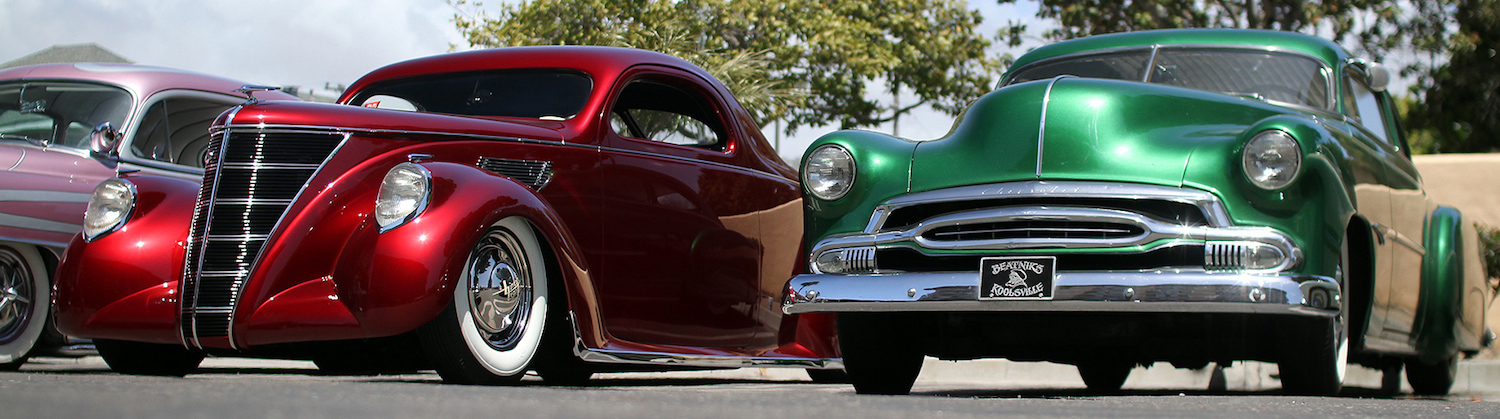
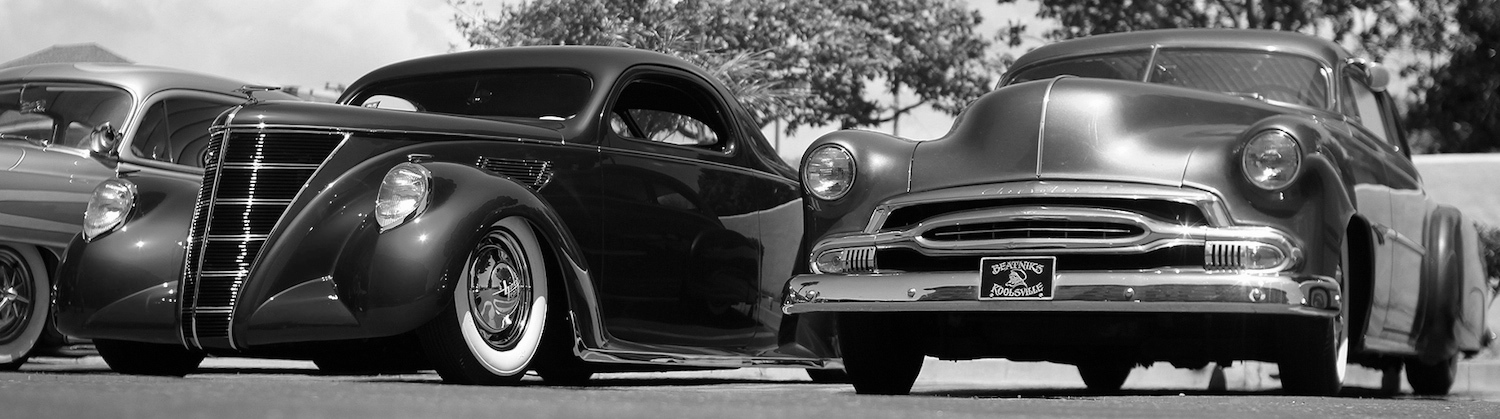
New Look -- Black and White

diff --git a/app/styles/main.scss b/app/styles/main.scss
@@ -18,7 +18,7 @@ body {
 
 .header {
     // background-color: rgb(25,29,51);
-    background-color: rgb(22,81,54);
+    background-color: rgb(21,21,21);
     height: 120px;
     width: 1500px;
     position: fixed;
@@ -32,14 +32,14 @@ body {
 // filter: progid:DXImageTransform.Microsoft.gradient( startColorstr='#232733', endColorstr='#4d5359',GradientType=0 ); /* IE6-9 */
 
 
-background: #165136; /* Old browsers */
-background: -moz-linear-gradient(top,  #165136 1%, #1d7244 99%); /* FF3.6+ */
-background: -webkit-gradient(linear, left top, left bottom, color-stop(1%,#165136), color-stop(99%,#1d7244)); /* Chrome,Safari4+ */
-background: -webkit-linear-gradient(top,  #165136 1%,#1d7244 99%); /* Chrome10+,Safari5.1+ */
-background: -o-linear-gradient(top,  #165136 1%,#1d7244 99%); /* Opera 11.10+ */
-background: -ms-linear-gradient(top,  #165136 1%,#1d7244 99%); /* IE10+ */
-background: linear-gradient(to bottom,  #165136 1%,#1d7244 99%); /* W3C */
-filter: progid:DXImageTransform.Microsoft.gradient( startColorstr='#165136', endColorstr='#1d7244',GradientType=0 ); /* IE6-9 */
+// background: #165136; /* Old browsers */
+// background: -moz-linear-gradient(top,  #165136 1%, #1d7244 99%); /* FF3.6+ */
+// background: -webkit-gradient(linear, left top, left bottom, color-stop(1%,#165136), color-stop(99%,#1d7244)); /* Chrome,Safari4+ */
+// background: -webkit-linear-gradient(top,  #165136 1%,#1d7244 99%); /* Chrome10+,Safari5.1+ */
+// background: -o-linear-gradient(top,  #165136 1%,#1d7244 99%); /* Opera 11.10+ */
+// background: -ms-linear-gradient(top,  #165136 1%,#1d7244 99%); /* IE10+ */
+// background: linear-gradient(to bottom,  #165136 1%,#1d7244 99%); /* W3C */
+// filter: progid:DXImageTransform.Microsoft.gradient( startColorstr='#165136', endColorstr='#1d7244',GradientType=0 ); /* IE6-9 */
 
 }
 
@@ -57,7 +57,9 @@ filter: progid:DXImageTransform.Microsoft.gradient( startColorstr='#165136', end
    
     // color: rgb(159, 0, 20);
     
-    color: #610C15;
+    // color: rgb(173,180,186);
+
+    color: #814143;
 
     // color: rgb(247,51,57);
     letter-spacing: 2px;
@@ -68,25 +70,27 @@ filter: progid:DXImageTransform.Microsoft.gradient( startColorstr='#165136', end
     font-size: 20px;
     padding-left: 42px;
     letter-spacing: 1px;
-    color: #E7E9E3;
+    // color: #E7E9E3;
+    color: rgb(85,89,97);
 }
 
 .tabs {
     display: inline-block;
-    margin-left: 25px;
+    margin-left: 77px;
 }
 
 ul li {
     list-style-type: none;
     display: inline-block;
-    border-right: 1px solid #E7E9E3;
-    color: #E7E9E3;
+    border-right: 1px solid #814143;
+    // color: #E7E9E3;
+    color: rgb(85,89,97);
     font-size: 14px;
     padding-right: 5px;
     font-size: 14px;
 }
 
-.contact {
+.details {
     border-right: 0px;
 }
 
@@ -100,27 +104,31 @@ ul li {
 
 .footer {
 
-    background-color: rgb(22,81,54);
+    // background-color: rgb(22,81,54);
+    background-color: rgb(21,21,21);
     height: 100px;
 
 
-    background: #165136; /* Old browsers */
-background: -moz-linear-gradient(top,  #165136 1%, #1d7244 99%); /* FF3.6+ */
-background: -webkit-gradient(linear, left top, left bottom, color-stop(1%,#165136), color-stop(99%,#1d7244)); /* Chrome,Safari4+ */
-background: -webkit-linear-gradient(top,  #165136 1%,#1d7244 99%); /* Chrome10+,Safari5.1+ */
-background: -o-linear-gradient(top,  #165136 1%,#1d7244 99%); /* Opera 11.10+ */
-background: -ms-linear-gradient(top,  #165136 1%,#1d7244 99%); /* IE10+ */
-background: linear-gradient(to bottom,  #165136 1%,#1d7244 99%); /* W3C */
-filter: progid:DXImageTransform.Microsoft.gradient( startColorstr='#165136', endColorstr='#1d7244',GradientType=0 ); /* IE6-9 */
+//     background: #165136; /* Old browsers */
+// background: -moz-linear-gradient(top,  #165136 1%, #1d7244 99%); /* FF3.6+ */
+// background: -webkit-gradient(linear, left top, left bottom, color-stop(1%,#165136), color-stop(99%,#1d7244)); /* Chrome,Safari4+ */
+// background: -webkit-linear-gradient(top,  #165136 1%,#1d7244 99%); /* Chrome10+,Safari5.1+ */
+// background: -o-linear-gradient(top,  #165136 1%,#1d7244 99%); /* Opera 11.10+ */
+// background: -ms-linear-gradient(top,  #165136 1%,#1d7244 99%); /* IE10+ */
+// background: linear-gradient(to bottom,  #165136 1%,#1d7244 99%); /* W3C */
+// filter: progid:DXImageTransform.Microsoft.gradient( startColorstr='#165136', endColorstr='#1d7244',GradientType=0 ); /* IE6-9 */
+// 
 }
 
 .footerinfo {
-    color: #E7E9E3;
+    // color: #E7E9E3;
+    color: rgb(85,89,97);
 }
 
 .footercontact {
     margin: 95px;
     padding-top: 80px;
+    color: rgb(85,89,97);
 }
 
 .contactinfo {

diff --git a/app/index.html b/app/index.html
@@ -37,8 +37,7 @@
                     <li>Register Your Vehicle</li>
                     <li>Register As A Model</li>
                     <li>Become A Sponsor</li>
-                    <li>Details</li>
-                    <li class="contact">Contact</li>
+                    <li class="details">Details</li>
                 </ul>
             </div>
         </div>
